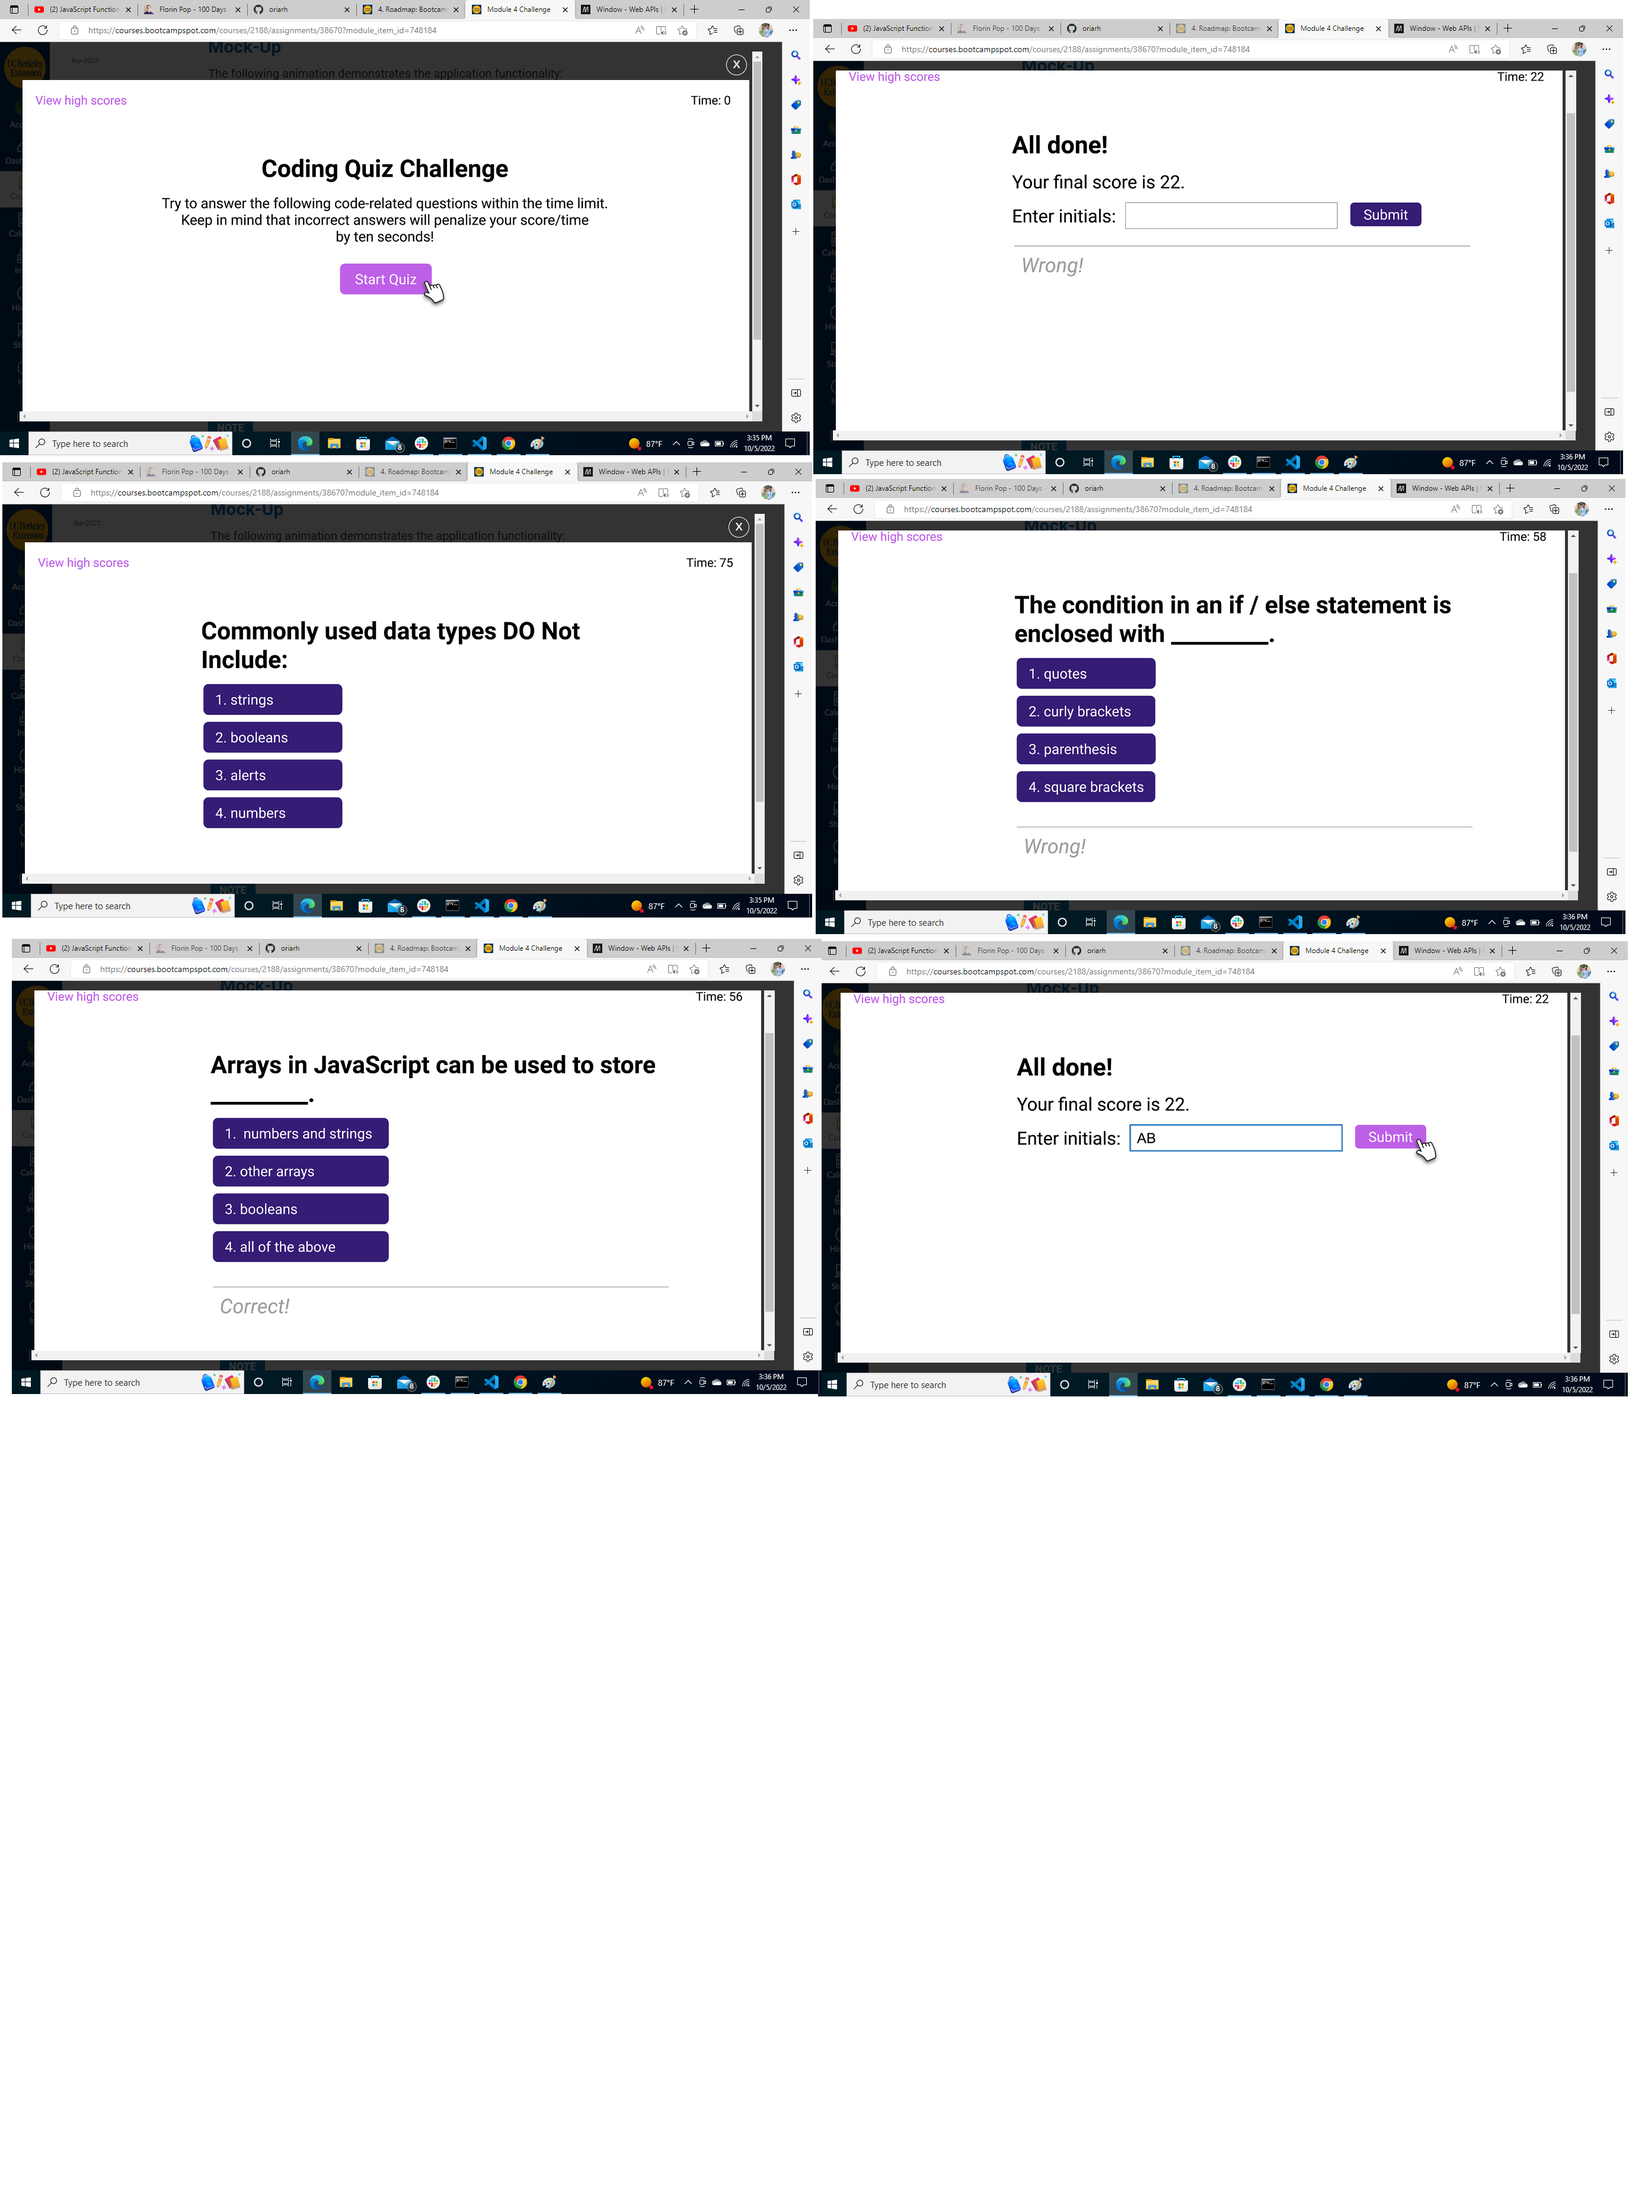
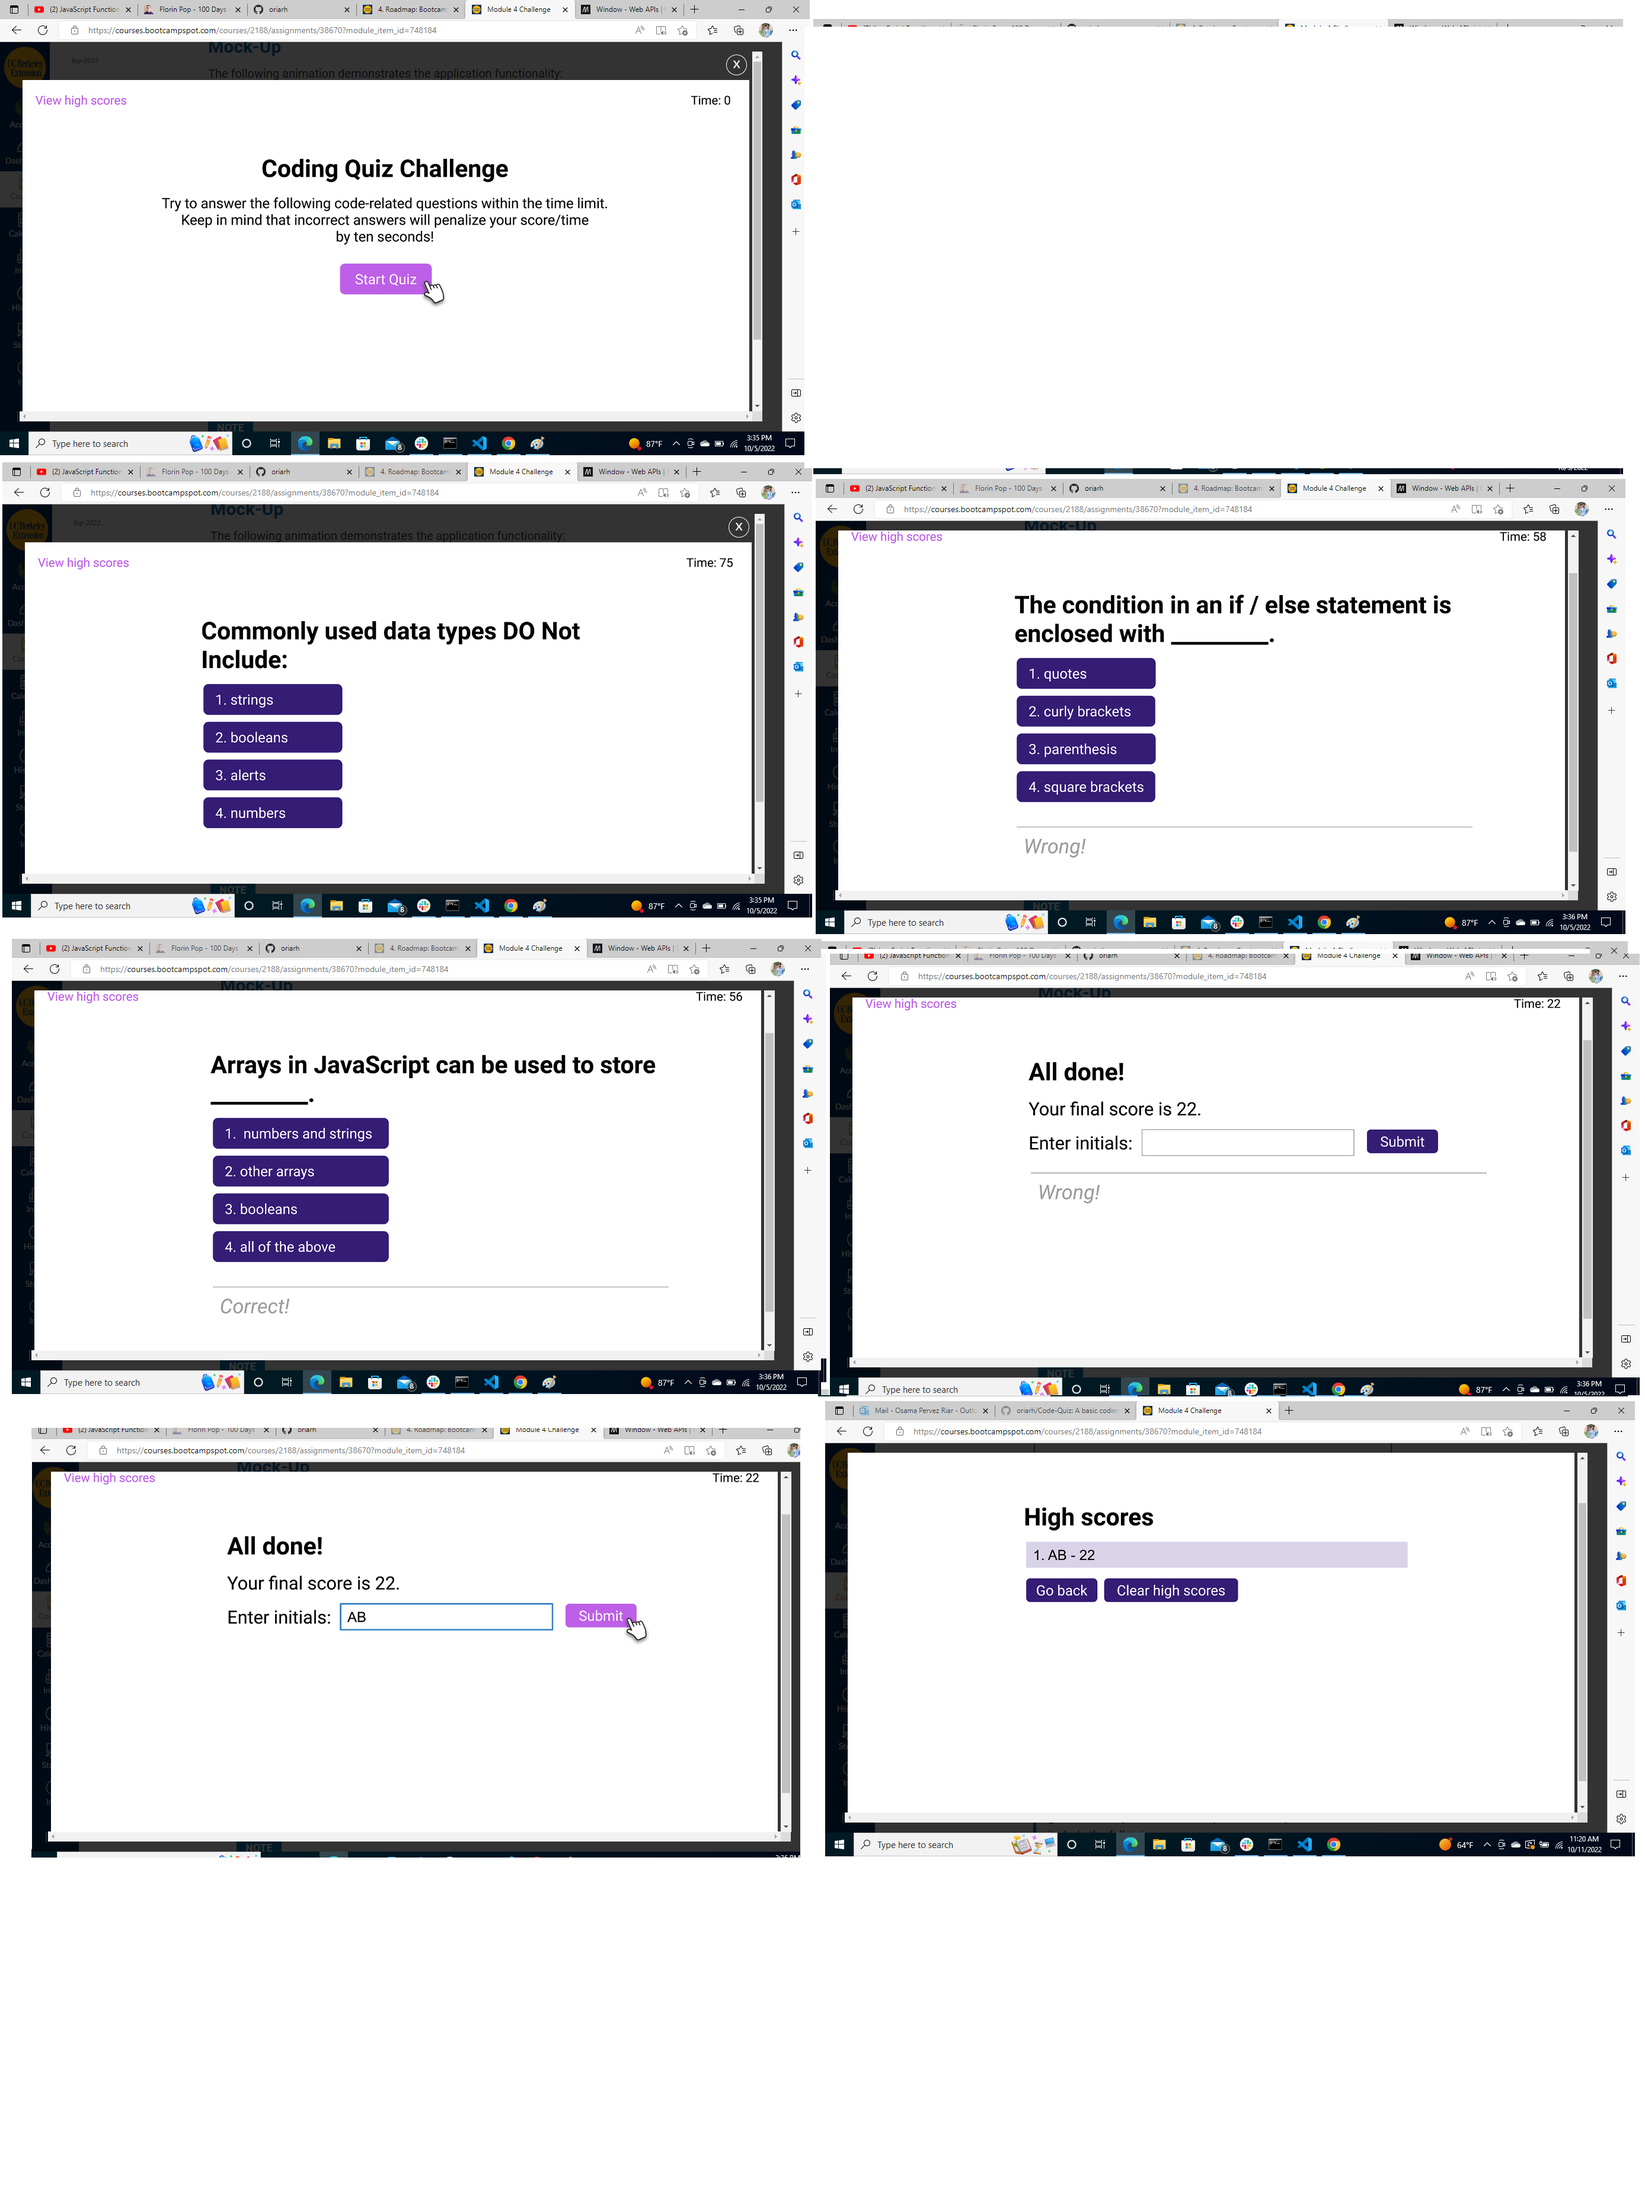
added code to JavaScript file

diff --git a/script.js b/script.js
@@ -2,39 +2,41 @@ var startquiz = document.getElementById("startquiz");
 var startseconds = 75;
 var countdowntimer = document.getElementById("countdown");
 var questions = document.getElementById("instructions");
+var scores = [];
 
-//Defined objects for each question with keys (question,answer & correctanswer)
+//Defined objects for each question with keys (question, answer & correct answer)
+
 const question1 = {
-    question:"Arrays in JavaScript can be used to store ___________.",
+    question: "Arrays in JavaScript can be used to store ________.",
     answers: {
         1: "Numbers and Strings",
         2: "Other Arrays",
         3: "Booleans",
         4: "All of the Above"
     },
-    correctAnswer: "4"
+    correctAnswer: "All of the Above"
 };
 
 const question2 = {
-    question: "String values must be enclosed within ____ when being assigned to variables.",
+    question: "String values must be enclosed within ________ when being assigned to variables.",
     answers: {
         1: "Commas",
         2: "Curly Brackets",
         3: "Quotes",
         4: "Parenthesis",
     },
-    correctAnswer: "3"
+    correctAnswer: "Quotes"
 };
 
 const question3 = {
     question: "Commonly used data types DO NOT include:",
-    answer: {
+    answers: {
         1: "Strings",
         2: "Booleans",
         3: "Alerts",
         4: "Numbers",
     },
-    correctAnswer: "3"
+    correctAnswer: "Alerts"
 };
 
 const question4 = {
@@ -45,54 +47,135 @@ const question4 = {
         3: "Parenthesis",
         4: "Square Brackets",
     },
-    correctAnswer: "3"
+    correctAnswer: "Parenthesis"
 };
 
-console.log(question2.question);
+const question5 = {
+    question: "A very useful tool used during development and debugging for printing content to the debugger is:",
+    answers: {
+        1: "JavaScript",
+        2: "Terminal/Bash",
+        3: "for Loops",
+        4: "Console.log",
+    },
+    correctAnswer: "Console.log"
+};
+
+const questionList = [question1, question2, question3, question4, question5];
+
+console.log(questionList[0].correctAnswer);
 
 //assigning code to the start quiz button
-startquiz.addEventListener("click",function() {
+startquiz.addEventListener("click", function () {
     startthetimer();
     console.log(startseconds);
-    forquestion1();
+    // forquestion1();
+    forQuestions();
+});
+
+
+var globalQuestionCounter = 0;
+
+//Changes questions in a loop after the quiz has started
+var changeQuestion = document.getElementById("quiz")
+//assigning code to the start quiz button
+changeQuestion.addEventListener("click", function (event) {
+    if(event.target.nodeName === "BUTTON") {
+        var buttontext = event.target.textContent;
+        var activequestion = questionList[globalQuestionCounter-1];
+        if(buttontext != activequestion.correctAnswer) {
+            startseconds-=10;
+        }
+        console.log(buttontext,activequestion.correctAnswer);
+        forQuestions();
+    };
 }
-    );
+);   
+
 
 //when startquiz is clicked
 //Then the times starts decreasing by 1 and shows up in HTML
-function startgame () {
-    startseconds--;
+function startgame() {
+    if (startseconds >=1) {
+        startseconds--;
     countdowntimer.textContent = startseconds;
+    }
 };
 
 function startthetimer() {
-    setInterval (startgame,1000);
+    setInterval(startgame, 1000);
 };
 
-//When startquiz is clicked, this function presents the first question
-function forquestion1() {
-    codingQuizchallenge = document.querySelector("#mainHeading");
-    codingQuizchallenge.style.display = "none";
-    startquiz.style.display = "none";
-    questions.textContent = question1.question;
-    questions.style.display = "block";
-    questions.style.textAlign = "left";
-    questions.style.fontWeight = "bold";
-    questions.style.fontSize = "28px";
-    questions.style.marginLeft = "191px"
-    questions.style.marginTop = "83px"
-    var answerlist1 = document.createElement("ol");
-    document.getElementById("quiz").appendChild(answerlist1);
-    for (i=1;i,i<5;i++) {
-        let li = document.createElement("button");
-        li.textContent = question1.answers[i];
-        li.setAttribute("type","button");
-        li.setAttribute("class","options");
-        li.setAttribute("id","options")
-        answerlist1.appendChild(li);
+function forQuestions() {
+    if (globalQuestionCounter >= questionList.length) {
+        // present results
+        codingQuizchallenge = document.querySelector("#mainHeading");
+        codingQuizchallenge.setAttribute ("class","styleforquestions");
+        codingQuizchallenge.style.marginLeft = "192px";
+        codingQuizchallenge.style.display = "block";
+        codingQuizchallenge.textContent = "All done!";
+        //var highscore = getItem()Enter keyname here to fetch from local storage));
+        questions.textContent = "Your final score is" + highscore;
+        questions.style.marginTop = "30px";
+        var answerList = document.getElementById("ol");
+        answerList.style.display = "none";
+        //Creating the input bar to enter initials
+        var inputinitials = document.createElement("input");
+        inputinitials.setAttribute("type","text");
+        inputinitials.setAttribute("placeholder","Enter initials Here")
+        inputinitials.style.marginTop = "27px";
+        document.getElementById("quiz").appendChild(inputinitials);
+        inputinitials.setAttribute("class","styleforquestions");
+        inputinitials.style.marginRight = "1px";
+        inputinitials.style.display = "inline";
+        //Creating the button to submit initials
+        let optionButtons = document.createElement("button");
+        optionButtons.textContent = "Submit";
+        optionButtons.setAttribute("type", "button");
+        optionButtons.setAttribute("class", "options");
+        optionButtons.style.display = "inline";
+        optionButtons.setAttribute("id", "initialssubmit")
+        optionButtons.addEventListener("click",function(){
+            scores.push({
+                initials: inputinitials.value,
+                score: startseconds,
+            })
+            localStorage.setItem("scores",JSON.stringify(scores));
+    
+        });
+        document.getElementById("quiz").appendChild(optionButtons);
+
+    } else {
+        codingQuizchallenge = document.querySelector("#mainHeading");
+        codingQuizchallenge.style.display = "none";
+        startquiz.style.display = "none";
+        let myQuestion = questionList[globalQuestionCounter++];
+        questions.textContent = myQuestion.question;
+        questions.setAttribute("class","styleforquestions")
+        var answerList = document.getElementById("ol");
+
+        if (answerList == null){
+            answerList = document.createElement("ol");
+            document.getElementById("quiz").appendChild(answerList);
+            answerList.setAttribute("id", "ol");
+            console.log("created OL");
+        } else {
+            console.log("found old ol");
+            while (answerList.firstChild){
+                answerList.removeChild(answerList.firstChild);
+                console.log("removed child");
+            }
+        }
+        console.log(answerList);
+        for (i = 1; i < 5; i++) {
+            let optionButtons = document.createElement("button");
+            optionButtons.textContent = myQuestion.answers[i];
+            optionButtons.setAttribute("type", "button");
+            optionButtons.setAttribute("class", "options");
+            optionButtons.setAttribute("id", "options" + i)
+            answerList.appendChild(optionButtons);
+            console.log("appending button" + optionButtons);
+        };
     };
 };
 
-function forquestion2(ev) {
-    console.log("this is working");
-};

diff --git a/style.css b/style.css
@@ -17,7 +17,7 @@ nav {
     margin: auto;
 }
 
-h1 {
+#mainHeading {
     margin: 80px 30px 30px 30px;
     display: flex;
     justify-content: center;
@@ -34,6 +34,16 @@ h1 {
     flex-wrap: wrap;
     font-size: 20px;
     font-weight:500;
+}
+
+.styleforquestions {
+    display: block;
+    text-align: left;
+    font-weight: bold;
+    font-size: 28px;
+    margin-left: 191px;
+    margin-top: 83px;
+    margin-right: 191px;
 }
 
 #result {
